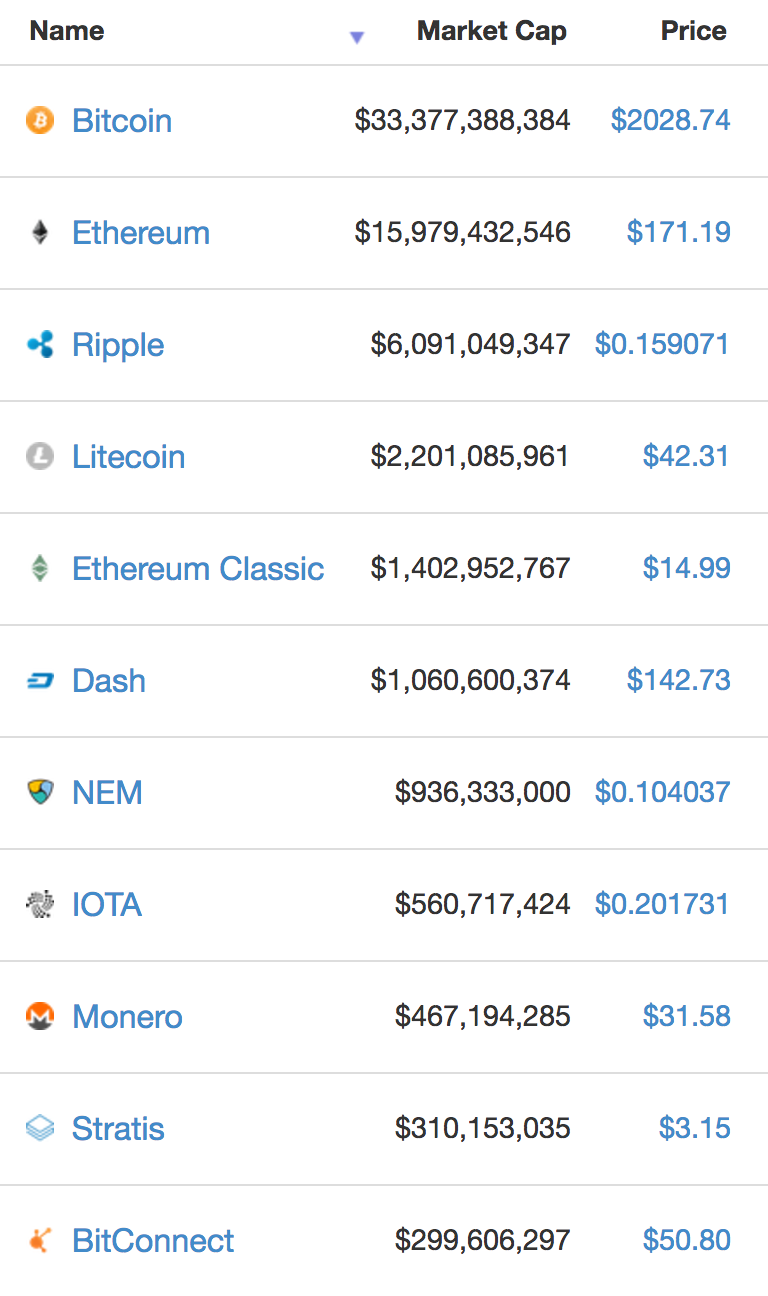
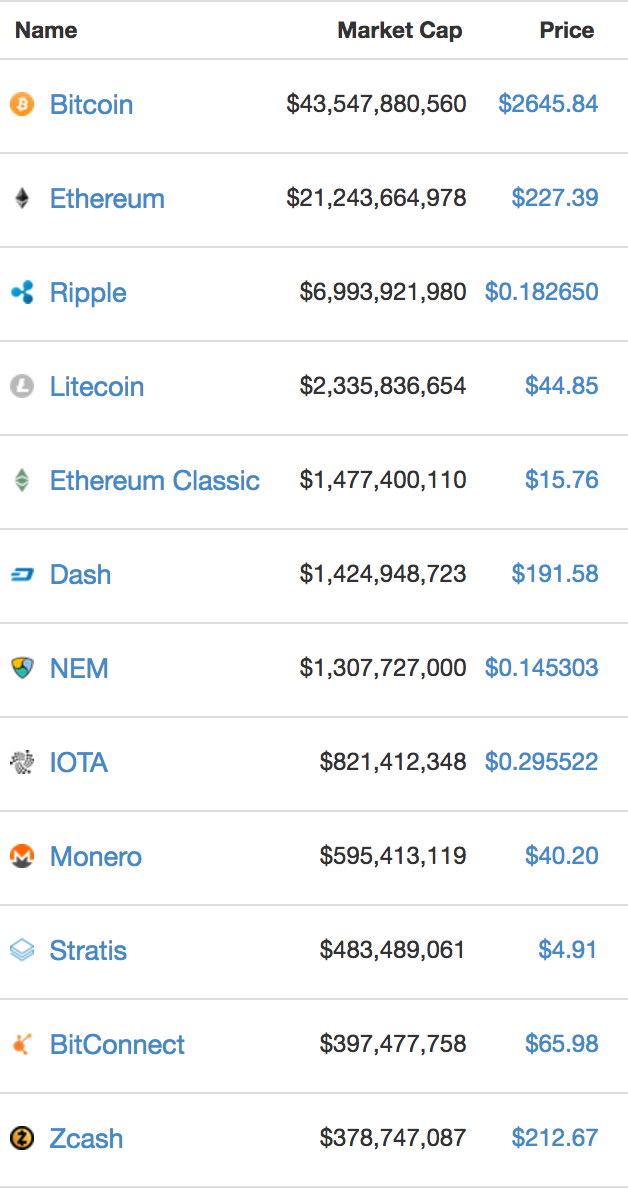
added overall sentiment to back of news card

diff --git a/client/app/components/dashboard/news/news.controller.js b/client/app/components/dashboard/news/news.controller.js
@@ -15,6 +15,7 @@ export default function NewsController (newsService, $log) {
   vm.newGauge = newGauge;
   vm.removeGauge = removeGauge;
   vm.setGauges = setGauges;
+  vm.overallGauge = overallGauge;
 
   function $onInit () {
     vm.articles = [];
@@ -29,6 +30,40 @@ export default function NewsController (newsService, $log) {
   let socialMax = 0;
   let socialMin = 0;
   let socialRange = 0;
+
+  function overallGauge () {
+    let sentimentSum = 0;
+    let aCount = 0;
+    vm.articles.forEach(a => {
+      $log.log(a.sentiment);
+      let num = a.sentiment;
+      sentimentSum = sentimentSum + a.sentiment;
+      aCount++;
+    })
+    $log.log('overall sum', sentimentSum)
+    $log.log('overall count', aCount)
+    let overallScore = 15;
+    newOverallGauge();
+
+    function newOverallGauge() {
+      var overallGauge = createGauge('.overall-gauge', {
+        size: 300,
+        clipWidth: 300,
+        clipHeight: 240,
+        ringWidth: 150,
+        maxValue: 100,
+        transitionMs: 4000,
+      });
+        overallGauge.render();
+        function updateReadings() {
+          overallGauge.update(15);
+        }
+        updateReadings();
+        // setInterval(function() {
+        //   updateReadings();
+        // }, 5 * 1000);
+    }
+  }
 
   function newGauge(article) {
     if (article.showGaugeCharts === 0) {
@@ -63,7 +98,7 @@ export default function NewsController (newsService, $log) {
       impactGauge.render();
 
       function updateReadings() {
-        article.impactScore = Math.round((article.sentiment * 0.4) + (article.social * 0.6));
+        article.impactScore = Math.round(((article.sentiment * 0.4) + (article.social * 0.6)) / 2);
         sentimentGauge.update(article.sentiment);
         socialGauge.update(article.social);
         impactGauge.update(article.impactScore);
@@ -100,7 +135,11 @@ export default function NewsController (newsService, $log) {
 
   let unsafeUrl2 = 'The FBI just took down AlphaBay, an online black market for drugs that was 10 times bigger than Silk Road';
 
-  let unsafeUrl3 = 'https://www.zdnet.com/article/hacker-steals-7-4m-in-ethereum-during-coindash-ico-launch/';
+  let unsafeUrl3 = 'GPU miners sell off graphics cards as ETH & BTC values drop';
+
+  let unsafeUrl4 = 'Hacker steals $7.4 million in ethereum during CoinDash ICO launch | ZDNet';
+
+  let unsafeUrl5 = 'Hacker steals more than $7 million in digital currency by switching a mere link';
 
   function getArticles () {
     newsService.getNews()
@@ -117,7 +156,7 @@ export default function NewsController (newsService, $log) {
           if (article.isDuplicate === true) {
             duplicates.push(article.uri);
           }
-          let shouldInclude = (!article.isDuplicate && article.sentiment !== 0 && article.uri !== '690930357' && article.uri !== '690235957' && article.title !== unsafeUrl) && article.title !== unsafeUrl2 && article.title !== unsafeUrl3 || article.uri === duplicates[0]
+          let shouldInclude = (!article.isDuplicate && article.sentiment !== 0 && article.uri !== '690930357' && article.uri !== '690235957' && article.title !== unsafeUrl) && article.title !== unsafeUrl2 && article.title !== unsafeUrl3 && article.title !== unsafeUrl4 && article.title !== unsafeUrl5 || article.uri === duplicates[0]
           if (shouldInclude) {
             vm.articles.push(article);
           }
@@ -125,14 +164,14 @@ export default function NewsController (newsService, $log) {
         $log.log('REFINED LIST: ', vm.articles)
         vm.articles.showArticleDetails = false;
         vm.articles.unshift({
-          body: "Bitcoin is soaring on Thursday, trading up 13.01% at $2,576 a coin. The cryuptocurrency continues to rally as traders look ahead to the August 1 decision on whether or not bitcoin will be split in two. Thursday's gain has the cryptocurrency up 40% from its July 17 low of $1,852. That's the day bitcoin tumbled 20% amid renewed fears it would be split in two.",
+          body: "Is compromise possible? It appears so. A middle-ground solution aims to start sending signature data separately from the blockchain later this week and then to double the block size limit to 2MB in three months' time. An initiative called Bitcoin Improvement Proposal 91 (BIP 91) states that if 80% of the mining effort adopts the new blockchain software involved and uses it consistently between 21 July and 31 July, then the wider community should accept this as the solution.",
           created_at: '2017-07-20T10:50:00Z',
           date: '2017-07-17',
           dateTime: '2017-07-20T10:50:00Z',
-          image: 'http://www.socialbliss.com/assets/favicons/favicon-50ff351d794f9.ico',
+          image: 'http://www.logodesignlove.com/images/evolution/bbc-logo-design.gif',
           source: {
             details: {
-              thumbImage: 'http://www.socialbliss.com/assets/favicons/favicon-50ff351d794f9.ico'
+              thumbImage: 'http://www.logodesignlove.com/images/evolution/bbc-logo-design.gif'
             }
           },
           sim: '0.6078431606292725',
@@ -140,10 +179,10 @@ export default function NewsController (newsService, $log) {
           sentiment: 24,
           sentimentLabel: 'positive',
           isDuplicate: false,
-          url: 'https://www.google.com/url?sa=t&rct=j&q=&esrc=s&source=newssearch&cd=2&cad=rja&uact=8&ved=0ahUKEwjOzfqusZjVAhVksVQKHVKOA2kQqQIILygAMAE&url=http%3A%2F%2Fwww.businessinsider.com%2Fbitcoin-price-explodes-above-2500-2017-7&usg=AFQjCNFBkvxgKc4Y5mYT4JtC-K1kro-hVQ',
-          title: 'Bitcoin explodes above $2500',
-          social: 70,
-          impactScore: 31,
+          url: 'https://www.bbc.com/news/technology-40654194',
+          title: 'Bitcoin swings as civil war looms',
+          social: 51,
+          impactScore: 15,
           showGaugeCharts: 0
         })
       })

diff --git a/client/app/components/dashboard/news/news.html b/client/app/components/dashboard/news/news.html
@@ -10,7 +10,7 @@
           <!-- <label>Search:</label>
           <input class="searchText" type="text" ng-model="searchText"> -->
           <img class="newsIcon" src="../../../images/newsIcon.png" alt="news">
-          <img class="newsIcon showFade" ng-click="$ctrl.cardFlip()" src="../../../images/pie.png" alt="chart">
+          <img class="newsIcon showFade" ng-click="$ctrl.cardFlip(); $ctrl.overallGauge()" src="../../../images/pie.png" alt="chart">
         </span>
         <span class="sort">
           <label>Sort:&nbsp;</label>
@@ -73,30 +73,47 @@
         </span>
       </div>
       <div class="currencyChart">
-        <img src="../../../images/currencyChart.png" alt="table">
-        <!-- <table class="dataTable" role="grid">
+        <!-- <img src="../../../images/currencyChart.png" alt="table"> -->
+        <table class="dataTable" role="grid">
           <thead>
             <tr role="row">
               <th>Name</th>
               <th>Market Cap</th>
               <th>Price</th>
-              <th>High (24h)</th>
-              <th>Low (24h)</th>
-              <th>Open (24h)</th>
-              <th>Close (24h)</th>
-              <th>% Change (24h)</th>
             </tr>
           </thead>
           <tbody>
             <tr>
               <td class="no-wrap">
-                <img src="https://files.coinmarketcap.com/static/img/coins/16x16/bitcoin.png" class="currency-logo" alt="Bitcoin">
+                <img src="https://files.coinmarketcap.com/static/img/coins/16x16/bitcoin.png" class="currency-logo" alt="btc">
                 <span>Bitcoin</span>
               </td>
-              <td></td>
+              <td>$43,547,880,560</td>
+              <td>$2,645.84</td>
+            </tr>
+            <tr>
+              <td class="no-wrap">
+                <img src="https://us.v-cdn.net/5021640/uploads/favicon_85d47ba50743e3c3.ico" class="currency-logo" alt="eth">
+                <span>Ethereum</span>
+              </td>
+              <td>$21,243,664,978</td>
+              <td>$227.39</td>
+            </tr>
+            <tr>
+              <td class="no-wrap">
+                <img src="https://litecoin.info/images/0/08/Litecoin-ren1.png" class="currency-logo" alt="ltc">
+                <span>Litecoin</span>
+              </td>
+              <td>$2,335,836,654</td>
+              <td>$44.85</td>
             </tr>
           </tbody>
-        </table> -->
+        </table>
+        <div class="sentContainer">
+          <h4>Overall Sentiment (5 days)</h4>
+          <p class="sentLabel">-15</p>
+          <div class="overall-gauge"></div>
+        </div>
       </div>
     </figure>
   </div>

diff --git a/client/app/css/news.css b/client/app/css/news.css
@@ -7,6 +7,39 @@
 	font-size: 1em;
 }
 
+img.currency-logo {
+	height: 15px;
+	width: auto;
+}
+
+/*table {
+	border-collapse:collapse;
+	border:1px solid #FF0000;
+}
+
+table td {
+	border:1px solid #FF0000;
+}*/
+
+th {
+	text-align: center;
+	padding-top: 15px;
+	padding-bottom: 5px;
+}
+
+tr {
+	padding-top: 15px;
+	padding-left: 15px;
+}
+
+td {
+	padding-right: 15px;
+}
+
+td.no-wrap {
+	padding-left: 15px;
+}
+
 .topLabel {
 	color: green;
 }
@@ -167,11 +200,6 @@ div.article-heading {
 
 .subHeading {
   color: rgb(232,81,22);
-}
-
-.currencyChart img {
-	width: 100%;
-	height: auto;
 }
 
 .article-indicators {

diff --git a/client/app/css/gauge.css b/client/app/css/gauge.css
@@ -25,3 +25,36 @@ g.pointer, g.pointer path {
 	display: flex;
 	justify-content: center;
 }
+
+div.overall-gauge {
+	margin-top: 20px;
+}
+
+div.currencyChart {
+	display: flex;
+	flex-direction: column;
+	justify-content: center;
+	/*align-items: center;*/
+}
+
+div.sentContainer {
+	margin-top: 40px;
+	display: flex;
+	flex-direction: column;
+	justify-content: center;
+	text-align: center;
+}
+
+p.sentLabel {
+	color: red;
+	font-size: 1.5em;
+}
+
+div.overall-gauge {
+	display: flex;
+	justify-content: center;
+}
+
+.overall-gauge g.arc path {
+	fill: black;
+}
